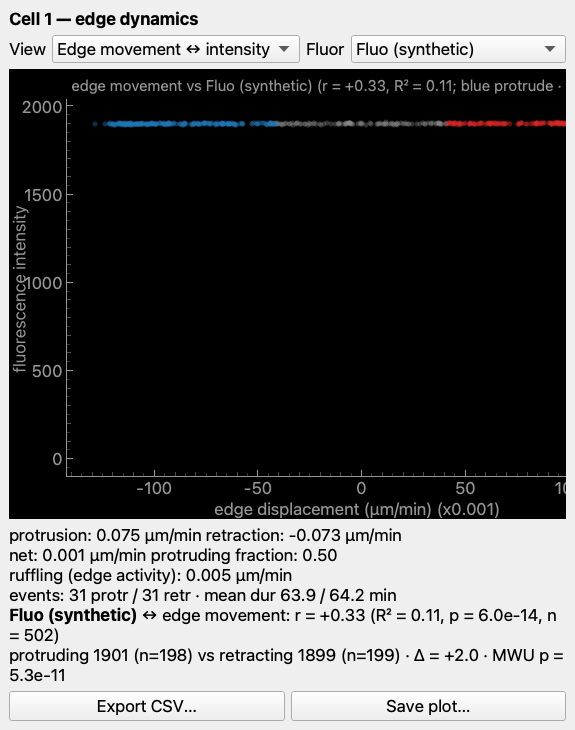
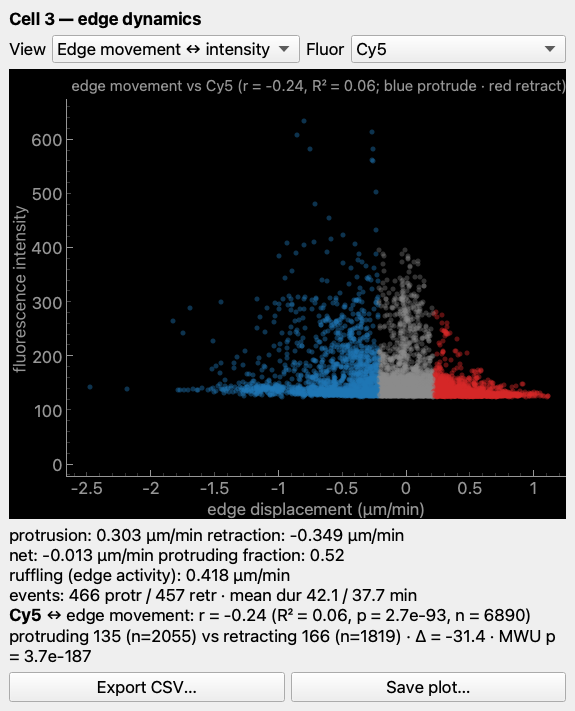
docs: real WT-control screenshots for the edge-analysis + alignment panels
Per the test-drive, replace the synthetic edge↔intensity + alignment README
screenshots with real ones from a WT-control recording's SiR-actin (Cy5) channel
(WT baseline only — no treatment-comparison data; comparison screenshots stay
synthetic):
- edge_piezo.png — edge movement ↔ Cy5 actin scatter (real WT cell)
- edge_sampling_rectangles.png (new) — per-sector rectangles on the cell boundary,
  centres coloured by actin intensity
- prep_align_fov.png — channel alignment + FOV dialog on the real DIC/Cy5 pair

README screenshot grid + disclaimer updated; SESSION_LOG note updated.

diff --git a/README.md b/README.md
@@ -97,9 +97,14 @@ package does the maths. Built for a **PIEZO1** keratinocyte-migration study
 |---|---|---|
 | ![cell info](docs/screenshots/cell_info.png) | ![population](docs/screenshots/population.png) | ![shape modes](docs/screenshots/shape_modes.png) |
 
-![edge movement vs fluorescence intensity (tagged PIEZO1 / SiR-actin / any signal) — scatter coloured by movement class with regression + r/R²/p](docs/screenshots/edge_piezo.png)
+*Edge movement ↔ SiR-actin (Cy5) on a real WT-control cell — actin is enriched at
+retracting edges (negative r, highly significant):*
 
-![channel alignment & FOV pre-analysis — align a fluorescence channel to DIC (grey/magenta overlay) and define the field of view; non-destructive](docs/screenshots/prep_align_fov.png)
+| Edge movement ↔ intensity | Sampling rectangles (coloured by intensity) |
+|---|---|
+| ![edge movement vs Cy5 actin — scatter coloured by movement class with regression + r/R²/p](docs/screenshots/edge_piezo.png) | ![per-sector sampling rectangles on the cell boundary, centres coloured by actin intensity](docs/screenshots/edge_sampling_rectangles.png) |
+
+![channel alignment & FOV pre-analysis (real WT control) — align the actin (Cy5) channel to DIC and define the field of view inside the black border; non-destructive](docs/screenshots/prep_align_fov.png)
 
 ![the Comparison window — a metric across conditions (recording = unit), arm-aware box plots + filters + per-contrast stats table](docs/screenshots/comparison.png)
 
@@ -113,7 +118,9 @@ package does the maths. Built for a **PIEZO1** keratinocyte-migration study
 
 ![the Groups & Comparisons editor — assign recordings to groups, include/exclude, pick controls + vehicle](docs/screenshots/groups_editor.png)
 
-*(Screenshots use synthetic data only — no real microscopy data is committed.)*
+*(Most screenshots use synthetic data. The edge-movement ↔ actin and channel-
+alignment panels above use a **WT-control** recording from the study — baseline only,
+no treatment-comparison data.)*
 
 ## Environment
 

diff --git a/SESSION_LOG.md b/SESSION_LOG.md
@@ -28,9 +28,11 @@ the new edge analysis + alignment and check nothing is broken.
   actin/DIC misalignment is real and that correcting it improves the analysis.
   New test `test_estimate_shift_bounded_rejects_far_peak`.
 
-Real-data screenshots were captured for validation but **not committed** (public
-repo — committed screenshots stay synthetic). `pytest` **64 passed**; all three
-GUI smokes green; all files < 500 lines.
+README screenshots for the edge-analysis + alignment panels now use a **real
+WT-control** recording's actin (Cy5) channel (`edge_piezo.png`,
+`edge_sampling_rectangles.png`, `prep_align_fov.png`) — baseline only, **no
+treatment-comparison data** (the comparison screenshots stay synthetic).
+`pytest` **64 passed**; all three GUI smokes green; all files < 500 lines.
 
 ---
 